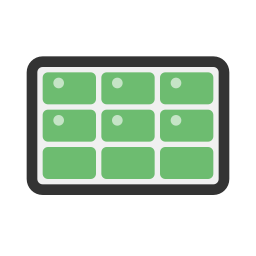
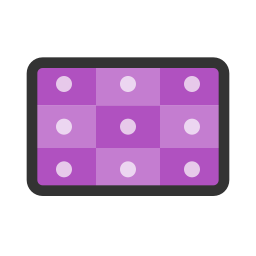
Mise à jour des icônes de modes d'ajustement et gestion du mode Étendre
- Remplacement des icônes par les nouvelles versions screen_*
- Ajout de updateAdjustmentOptions() pour gérer la compatibilité des modes
- Le mode "Étendre" est désactivé quand "Image différente sur chaque écran" est activé
- Basculement automatique vers "Remplir" si "Étendre" était sélectionné
- Interface grisée pour indiquer les options non disponibles

🤖 Generated with [Claude Code](https://claude.ai/code)

diff --git a/app/main.cpp b/app/main.cpp
@@ -955,6 +955,34 @@ private slots:
                 statusLabel->setText("Cliquez pour changer le fond d'écran");
             }
         }
+
+        // Gérer la disponibilité du mode "Étendre"
+        updateAdjustmentOptions(enabled);
+    }
+
+    void updateAdjustmentOptions(bool multiScreenEnabled) {
+        if (!adjustmentCombo) return;
+
+        // Le mode "Étendre" (index 2) n'est pas compatible avec "Image différente sur chaque écran"
+        QStandardItemModel* model = qobject_cast<QStandardItemModel*>(adjustmentCombo->model());
+        if (model) {
+            QStandardItem* spanItem = model->item(2); // Index 2 = "Étendre"
+            if (spanItem) {
+                bool spanAvailable = !multiScreenEnabled;
+                spanItem->setEnabled(spanAvailable);
+
+                if (!spanAvailable) {
+                    spanItem->setData(QColor(128, 128, 128), Qt::ForegroundRole); // Grisé
+                    // Si "Étendre" est actuellement sélectionné, basculer vers "Remplir"
+                    if (adjustmentCombo->currentIndex() == 2) {
+                        adjustmentCombo->setCurrentIndex(0); // "Remplir"
+                        onSettingsChanged(); // Marquer comme modifié
+                    }
+                } else {
+                    spanItem->setData(QColor(255, 255, 255), Qt::ForegroundRole); // Normal
+                }
+            }
+        }
     }
 
     void updateCountdownFromSettings() {
